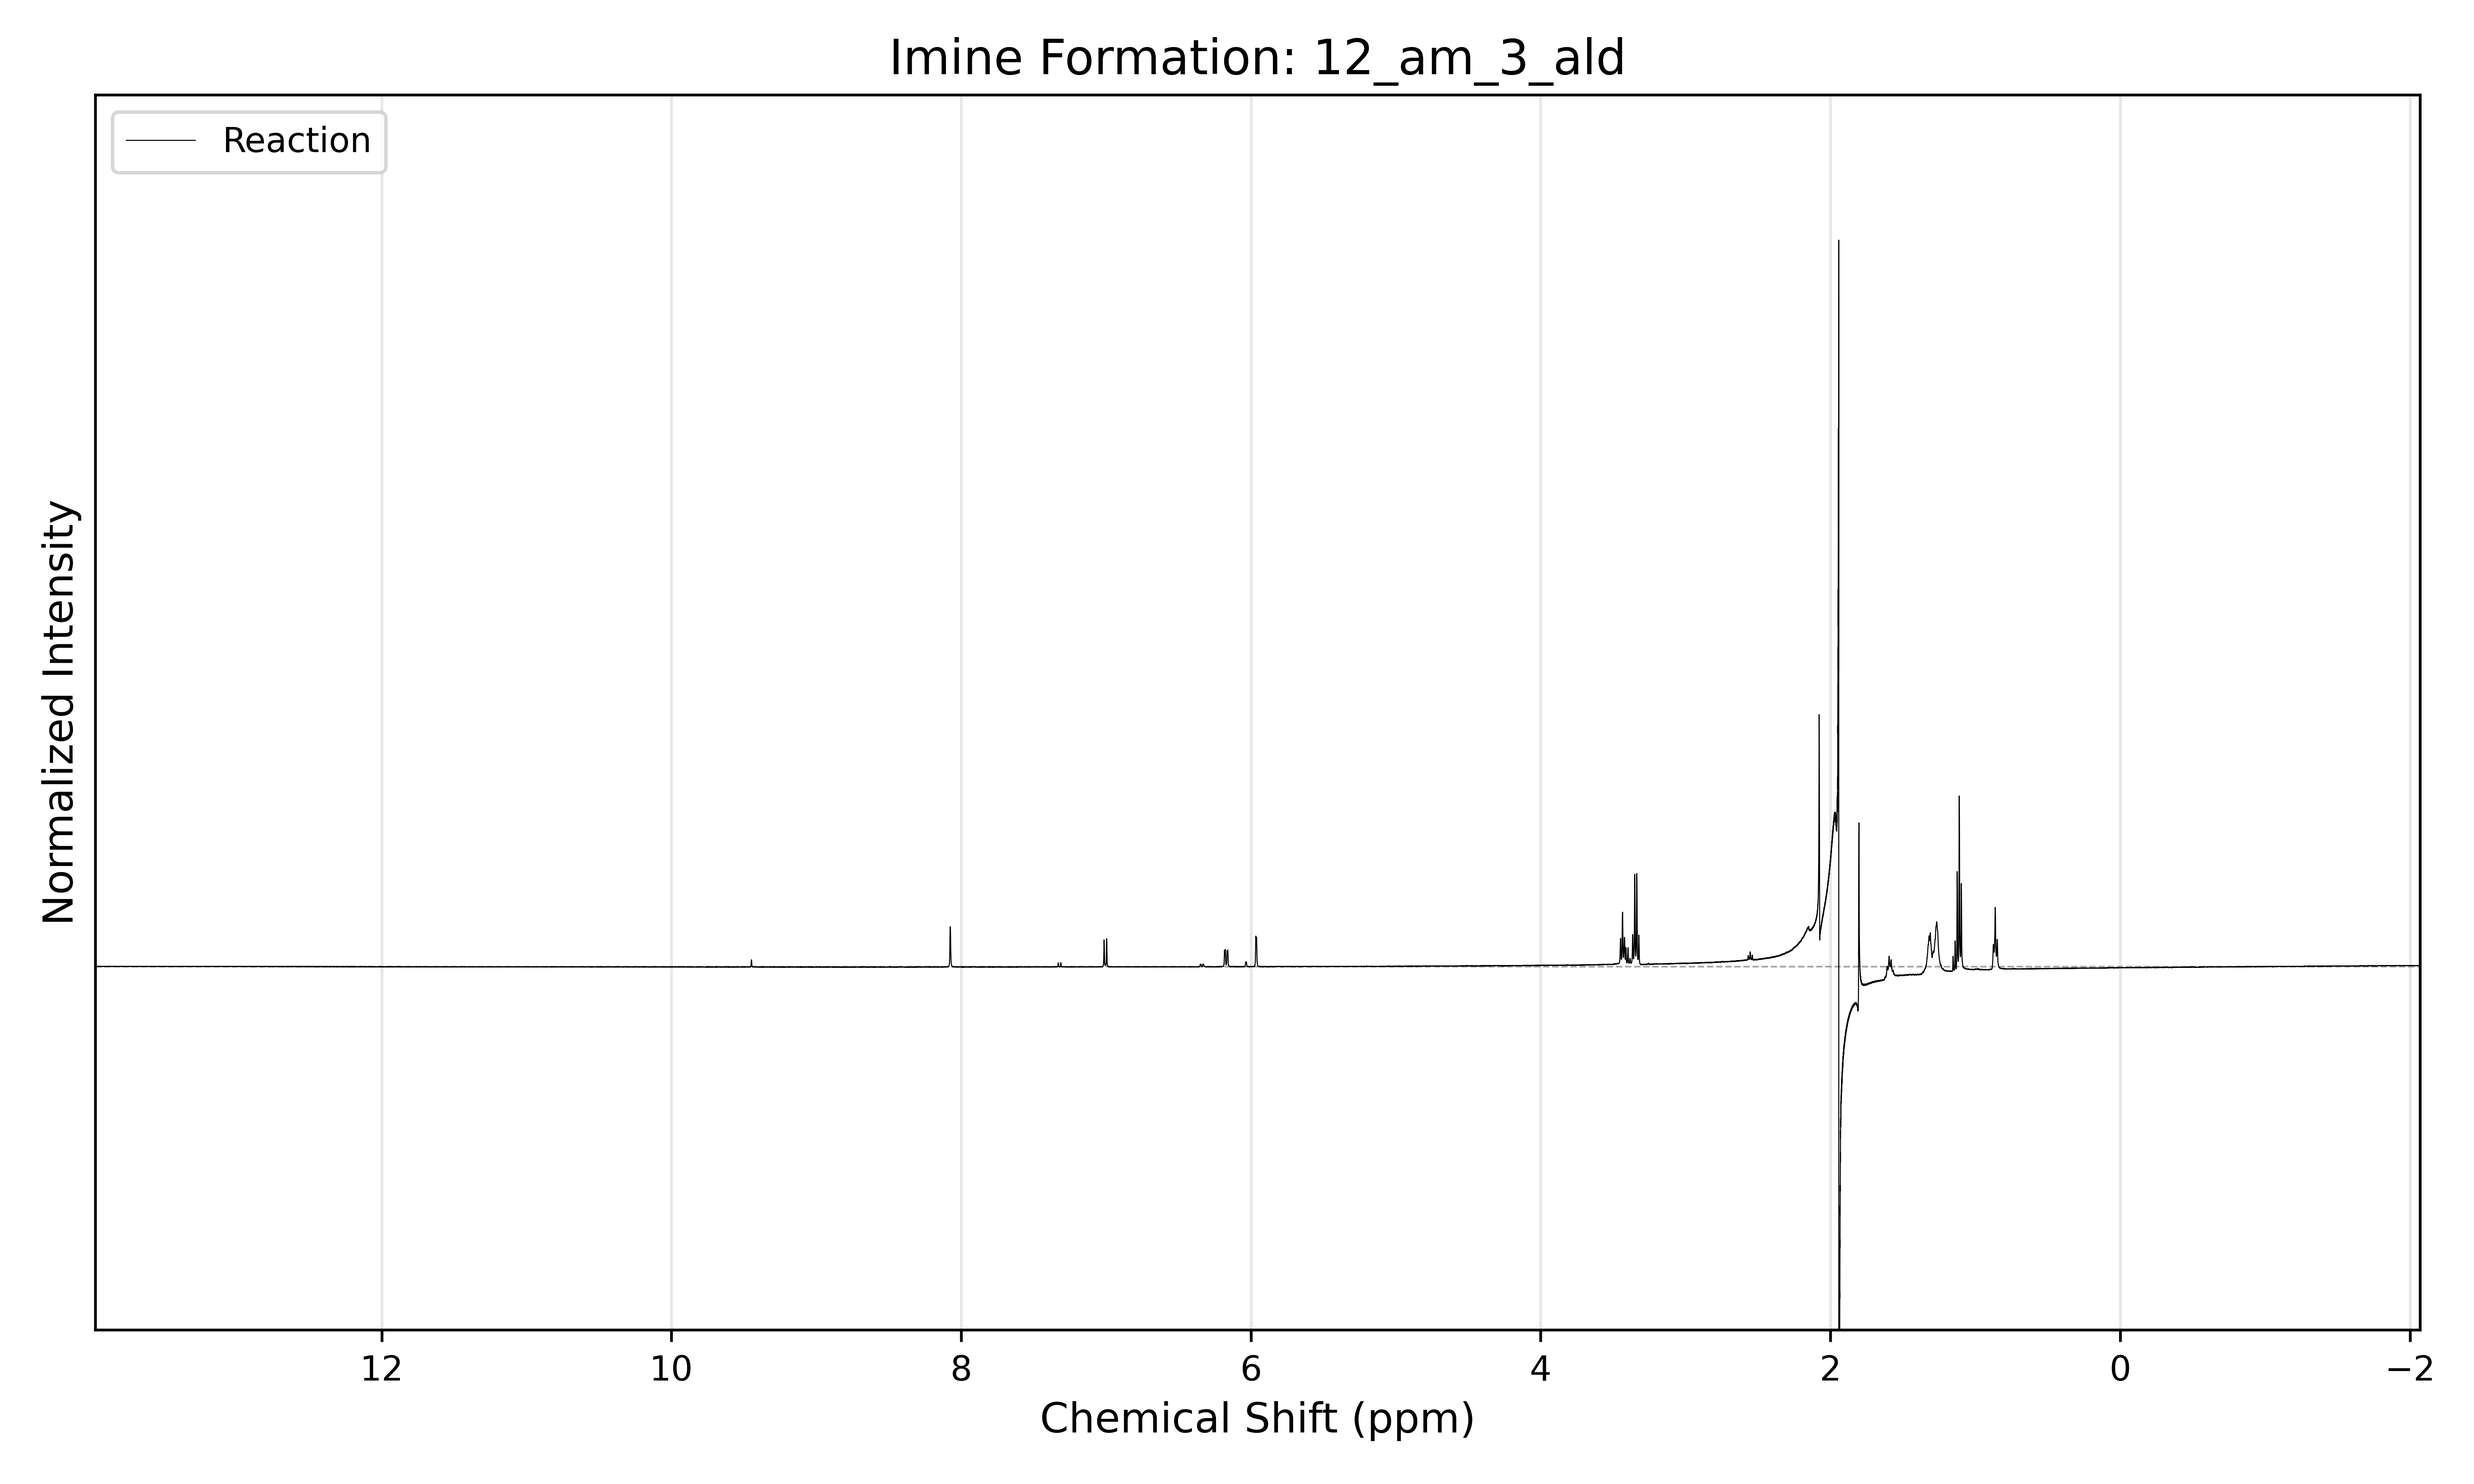
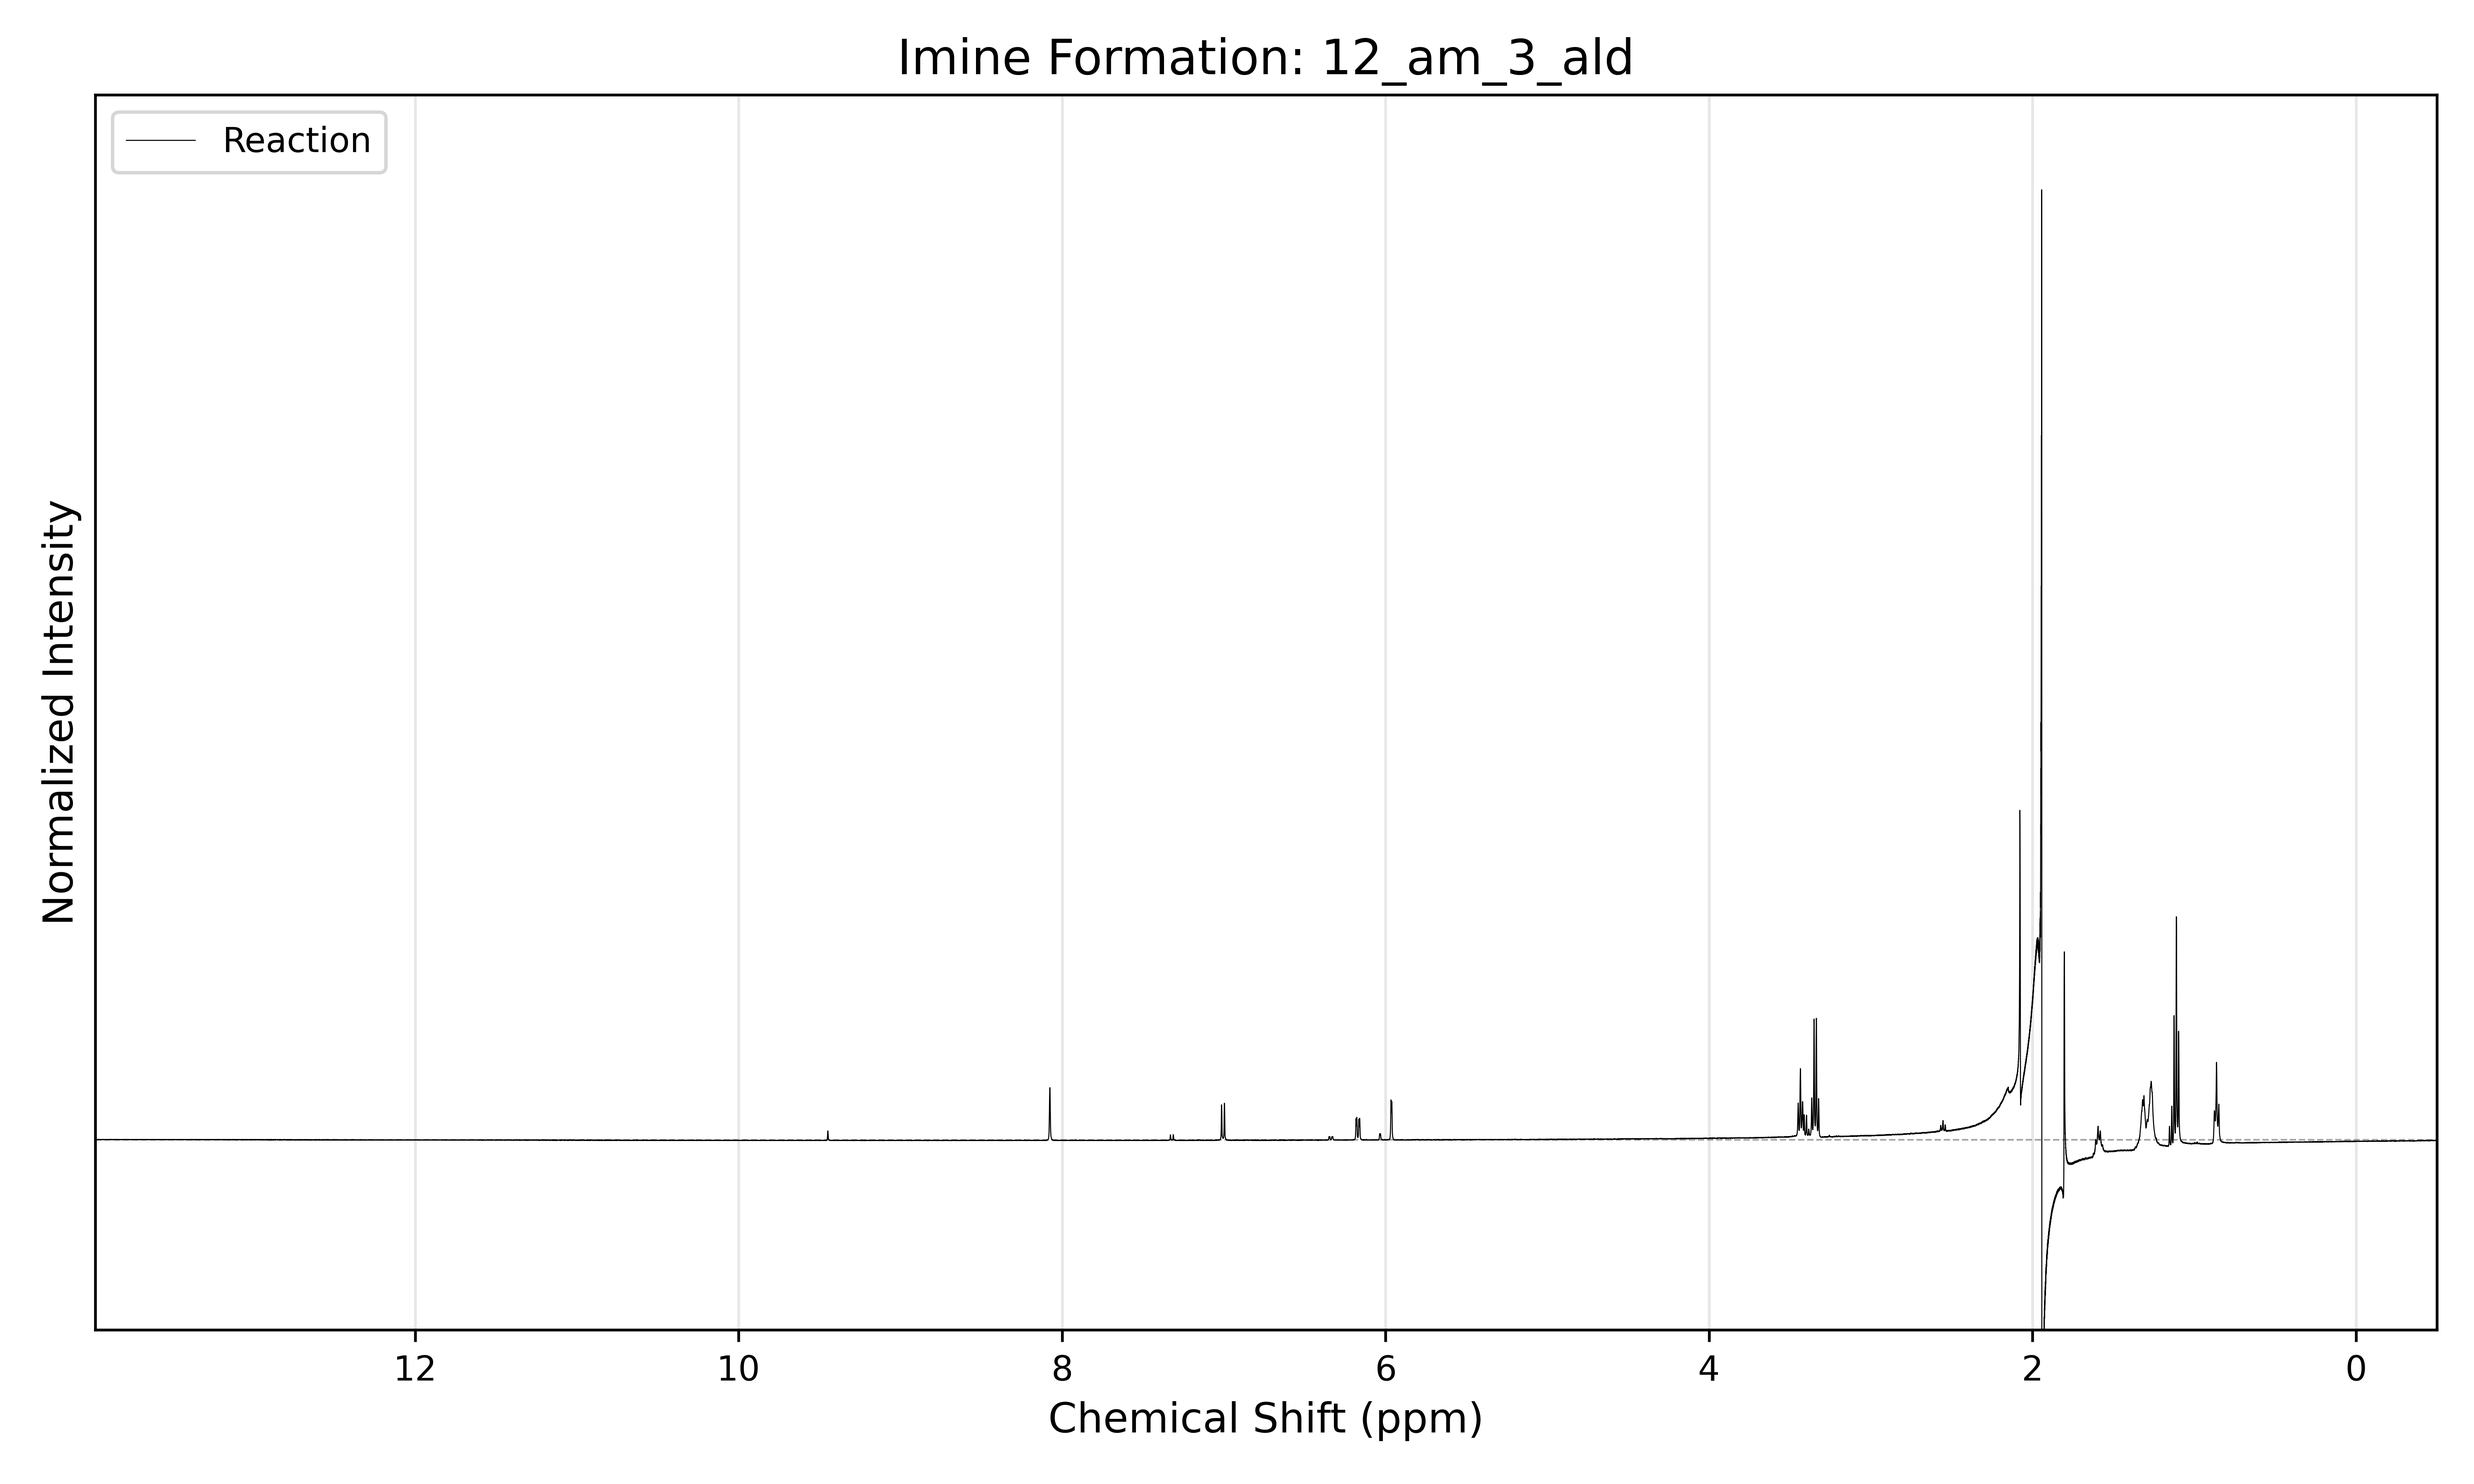
last commit before peak picking and integration

diff --git a/plot_nmr.py b/plot_nmr.py
@@ -139,7 +139,7 @@ def main():
         if getattr(config, "AUTO_X_LIMITS", True):
             # Find the absolute min and max ppm across all data we just plotted
             all_ppms = np.concatenate([ppm for ppm, _ in spectra_to_plot.values()])
-            ax.set_xlim(np.max(all_ppms), np.min(all_ppms))
+            ax.set_xlim(np.max(all_ppms), -0.5)
         else:
             ax.set_xlim(
                 getattr(config, "FIXED_X_MAX", 12.0),
@@ -148,7 +148,7 @@ def main():
 
         # Restrict y-axis dynamically based on the tallest peak in the whole plot
         if max_y_plotted != -np.inf:
-            ax.set_ylim(-0.5 * max_y_plotted, 1.2 * max_y_plotted)
+            ax.set_ylim(-0.2 * max_y_plotted, 1.1 * max_y_plotted)
 
         ax.set_xlabel("Chemical Shift (ppm)", fontsize=12)
         ax.set_ylabel(
